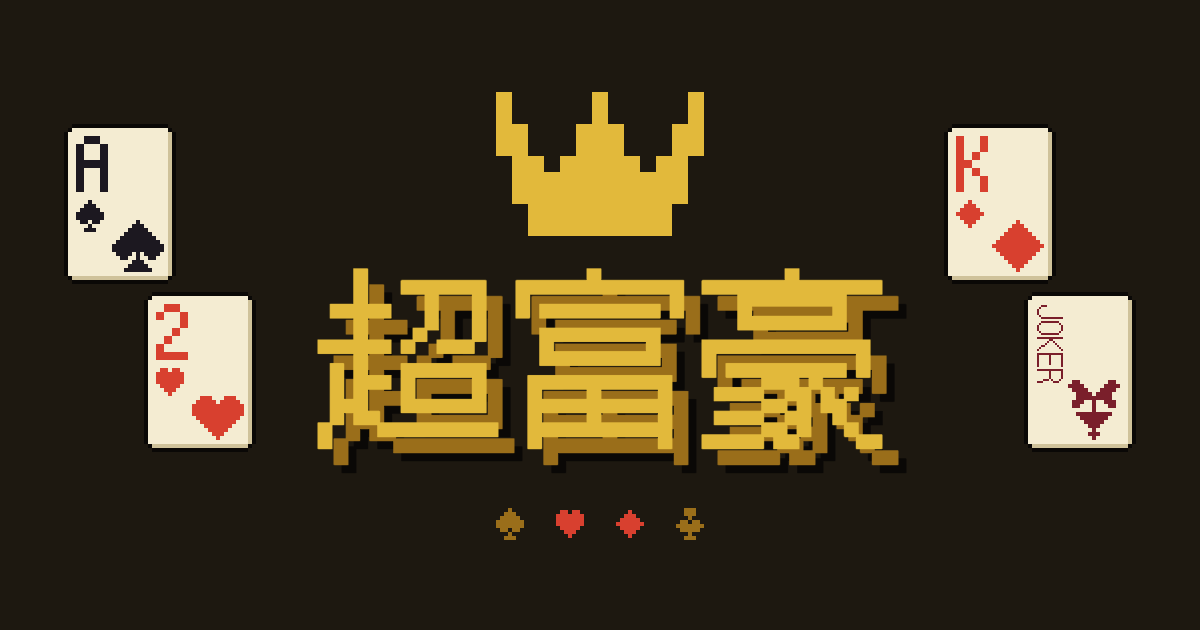
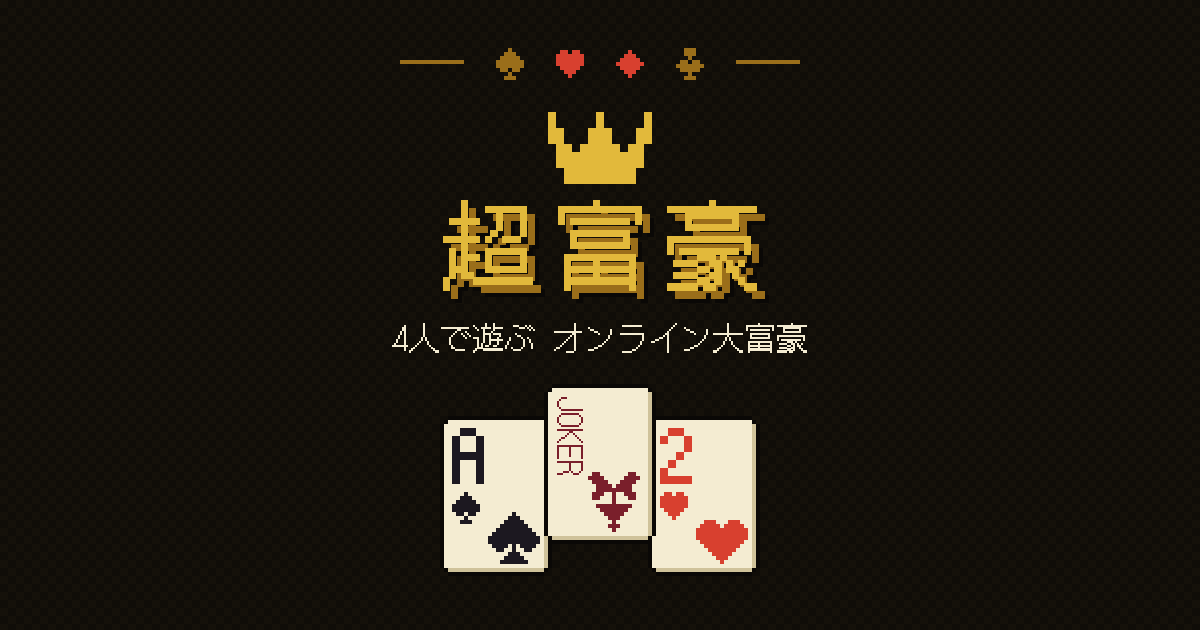
client: プレビューの画像を b 案（ロゴ＋1行＋トランプ3枚）にする。docs: ユーザーの選択を記録

diff --git a/docs/client-assumptions.md b/docs/client-assumptions.md
@@ -560,11 +560,12 @@
 
 - **場面**: ユーザーから「OGP とアイキャッチ画像も Codex に依頼していい感じに作ってほしい」と依頼があった。「アイキャッチ画像」は、リンクのプレビューに出る画像（`og:image`）と同じ1枚と読んで進めた。
 - **作り方**: 画像生成は使わない。ゲームの画面と同じ部品（`Logo`・`Card`・`Pixel`）を、開発のときだけの画面 `/dev/og` に 600×315 CSS px で並べ、倍率2で撮って 1200×630 の PNG にする（`packages/client/scripts/og.mjs`。手元の Chrome を CDP で動かす。依存は足していない）。色・線・文字は global.css の決まりのまま。
-- **構図**: Codex が3案を作った（`docs/mock/client/og-a.png`・`og-b.png`・`og-c.png`）。a：2倍のロゴを中央、左右にトランプ2枚ずつ、下に4つのマーク。b：タイトル画面の装飾に「4人で遊ぶ オンライン大富豪」の1行。c：ロゴを4人の手札が囲む卓。設計担当が a を選んだ。理由は、幅300px に縮めてもロゴが読めることと、中央の正方形（630×630）に切り抜かれてもロゴが欠けないこと（b と c は縮めるとロゴが小さい）。a は上下の中央に来るよう、全体を 12px 上げた。a のロゴは、2倍にしても中央の正方形に収まるよう、この画像の中だけ字間を詰めている（ホーム画面のロゴは字間 8px のまま。`Logo` は変えていない）。
+- **構図**: Codex が3案を作った（`docs/mock/client/og-a.png`・`og-b.png`・`og-c.png`）。a：2倍のロゴを中央、左右にトランプ2枚ずつ、下に4つのマーク。b：タイトル画面の装飾に「4人で遊ぶ オンライン大富豪」の1行。c：ロゴを4人の手札が囲む卓。はじめ設計担当が a を選んで組み込み、3枚を見たユーザーが b を選んだ（2026-11-20）。**公開用の `public/og.png` は b。** 以下は a を選んだときの理由と調整の記録：理由は、幅300px に縮めてもロゴが読めることと、中央の正方形（630×630）に切り抜かれてもロゴが欠けないこと（b と c は縮めるとロゴが小さい）。a は上下の中央に来るよう、全体を 12px 上げた。a のロゴは、2倍にしても中央の正方形に収まるよう、この画像の中だけ字間を詰めている（ホーム画面のロゴは字間 8px のまま。`Logo` は変えていない）。
 - **タグ**（`packages/client/index.html`）: `description`、`og:type`・`og:site_name`・`og:locale`・`og:title`・`og:description`・`og:image`（絶対 URL、`/og.png`）・`og:image:type`・`width`・`height`・`alt`、`twitter:card=summary_large_image`。説明は「ブラウザで遊ぶ、4人対戦の大富豪。リンクを開けばそのまま参加できます。」。
   - `og:url` は書かない。友だちに送るのは招待リンク（`/r/<ルームID>`）で、そこにも同じ HTML が返るため（固定で書くと、プレビューの行き先がホームになる表示先がある）。
   - 画像の URL には公開先のホスト名を書いている。公開先を変えるときは、ここも直す。
   - 表示先はプレビューをキャッシュする。公開したあとで絵を差し替えるときは、ファイル名を変える。
+- **b について**: ロゴ・1行の文字・トランプ3枚は、どれも中央の正方形（630×630）の中に収まっている。幅300px に縮めると、ロゴは読めるが、1行の文字は読みにくい（タイトルと説明はタグの文字でも出る）。
 - **足していないもの**: favicon とホーム画面用のアイコン（頼まれていない）。
 - **確かめたこと**: 画像3枚を開いて、欠け・にじみ・はみ出しがないこと。a を幅300px に縮めた画像と、中央の正方形に切り抜いた画像でロゴが読めること。開発サーバーで `/og.png` が `image/png` で返ること（ファイルが無い名前は index.html が返るので、content-type で見分けた）、`/r/abcd` の HTML にタグが入っていること。ビルドの出力に `og.png` が入り、本番の JS に `/dev/og` の画面が入っていないこと。`pnpm typecheck` は通る。
 - **テスト**: `pnpm test` は3回目で全部通った（engine 390、server 78、client 193）。1回目は server の1件（`prod.test.mjs` の 413 の項目で、ルームの作成が 500）、2回目は engine の1件（`visibility.test.ts`）で失敗した。どちらも単独で回すと通り、engine と server には今回の差分がない。そのとき、同じ機械で別のプロジェクトの処理が動いていて、負荷の平均が 900 を超えていた（負荷による揺れと見ている。原因の切り分けはしていない）。

diff --git a/packages/client/README.md b/packages/client/README.md
@@ -73,7 +73,7 @@ node scripts/bots.mjs --room <ルームID> --count 3 --passive          # ブラ
 
 ### リンクのプレビューの画像（OGP）
 
-`public/og.png`（1200×630）は、開発のときだけの画面 `/dev/og?v=a`（`src/dev/Og.tsx`。`b`・`c` はほかの案）を撮ったもの。作り直すときは、開発サーバーを起動してから、リポジトリのルートで次を実行し、`og-a.png` を `packages/client/public/og.png` に上書きする。
+`public/og.png`（1200×630）は、開発のときだけの画面 `/dev/og?v=b`（`src/dev/Og.tsx`。`a`・`c` はほかの案）を撮ったもの。作り直すときは、開発サーバーを起動してから、リポジトリのルートで次を実行し、`og-b.png` を `packages/client/public/og.png` に上書きする。
 
 ```sh
 node packages/client/scripts/og.mjs http://localhost:19473 docs/mock/client
